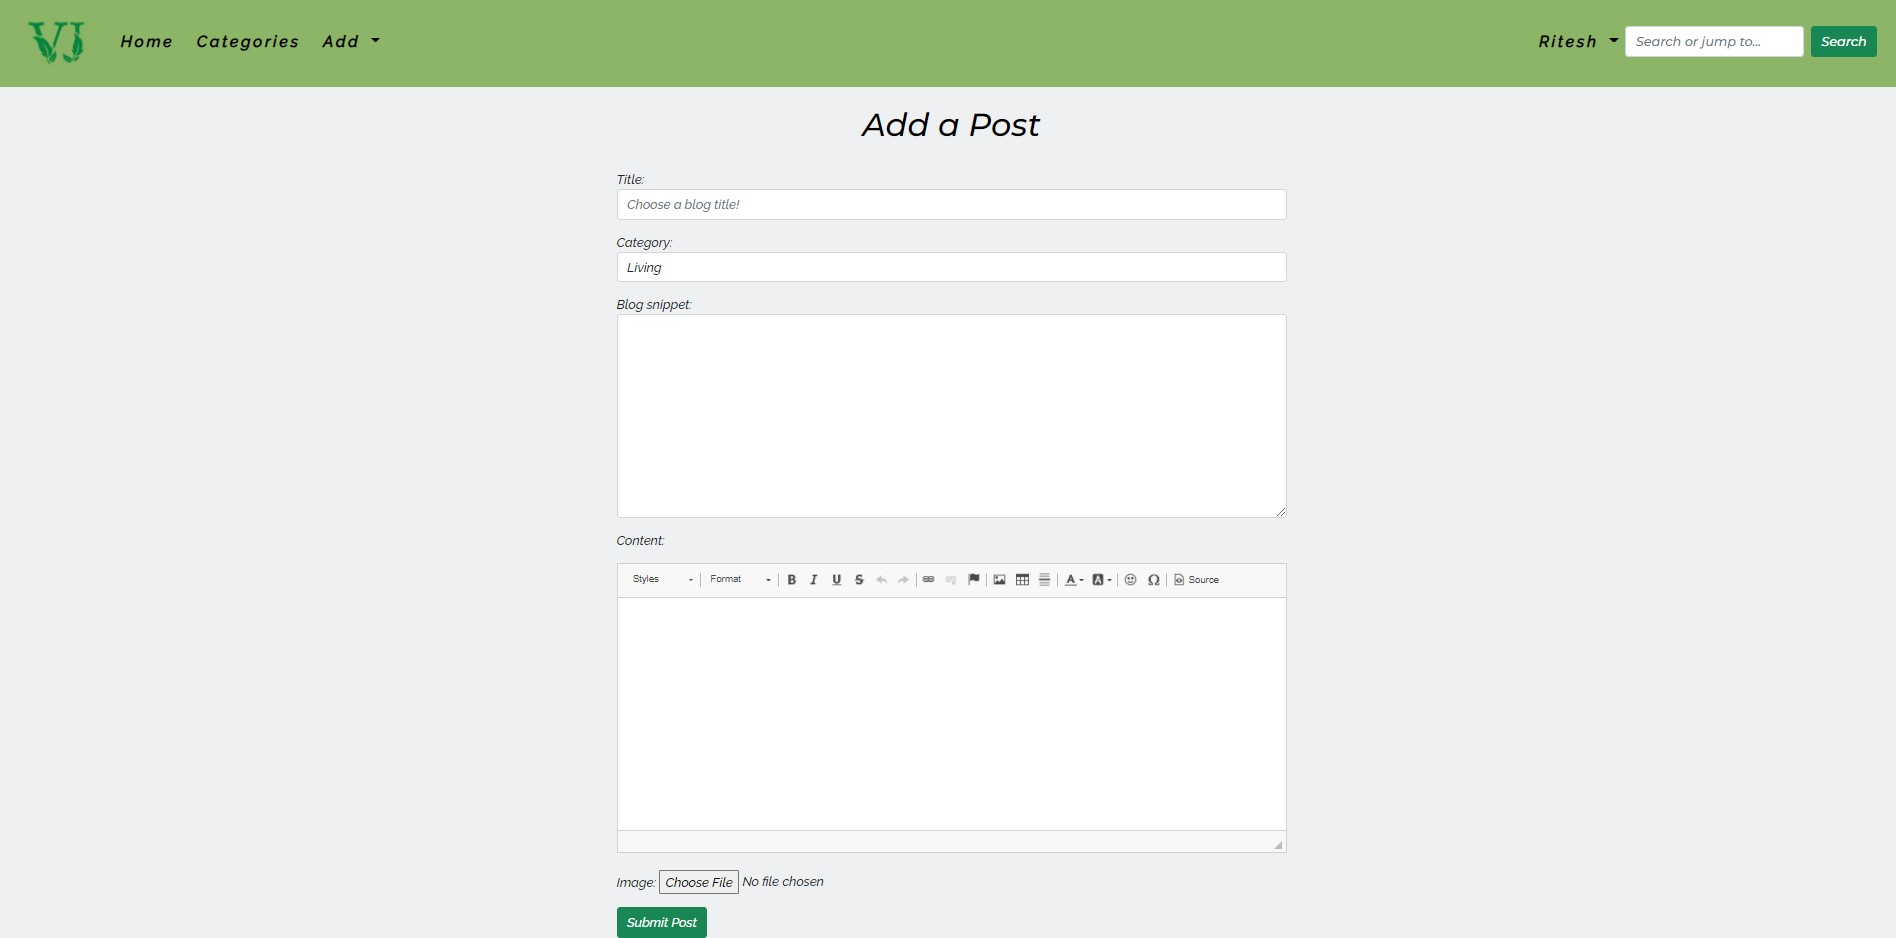
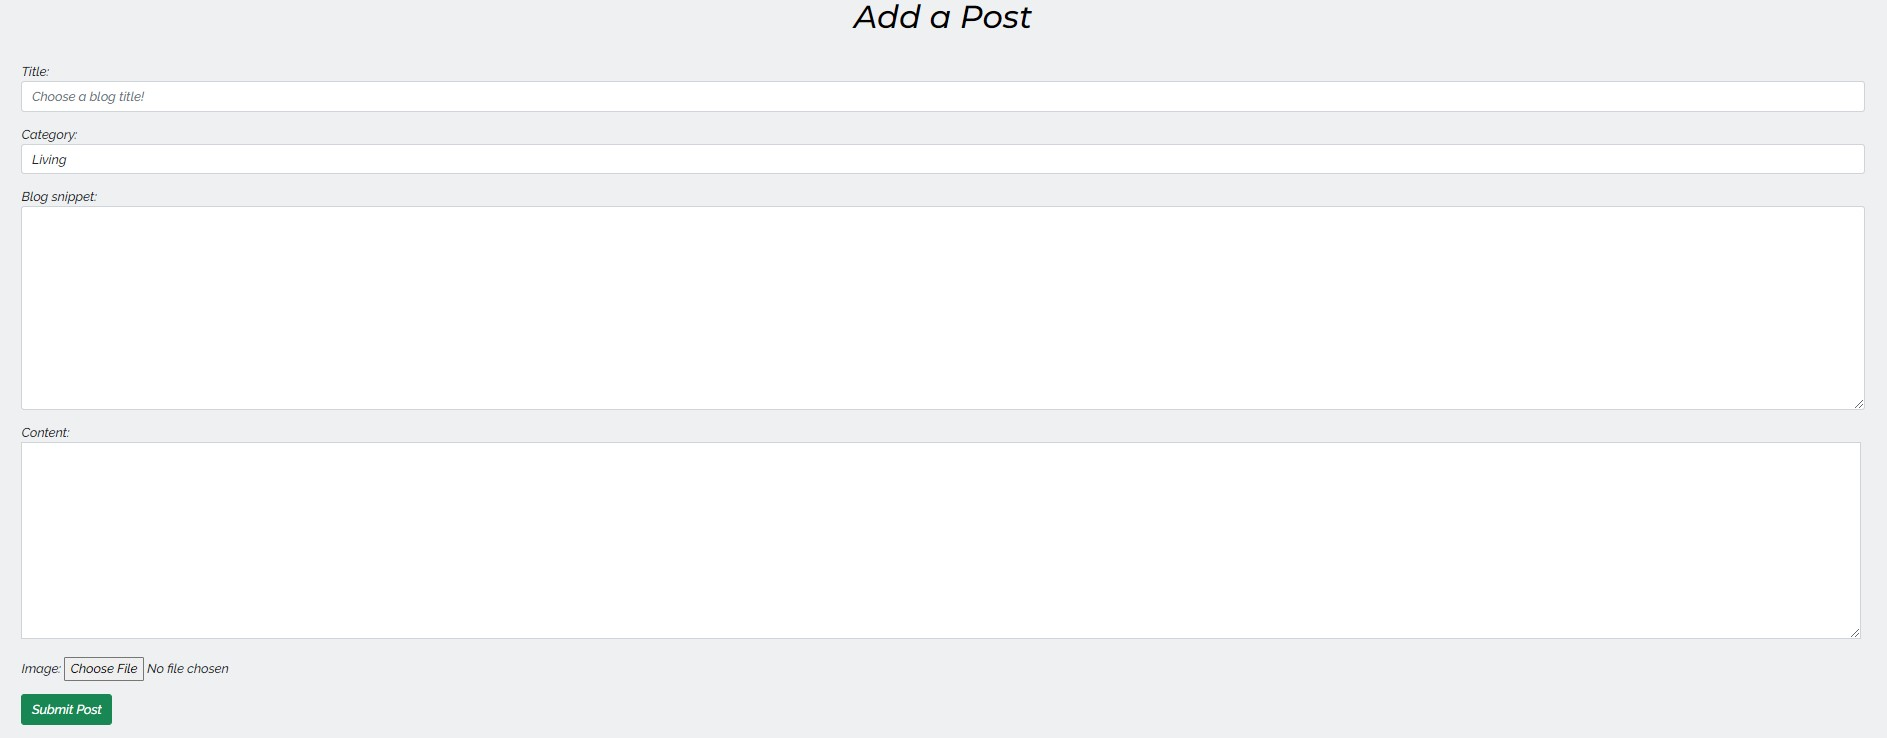
Update readme with bugs and fixes with images

diff --git a/README.md b/README.md
@@ -156,6 +156,16 @@ All Pages on the website have:
 ## Testing
 
 ### Bugs
+- Disorted form (add post page)
+  - [Error](documentation/testing/bugs/add_post.png) no styling for the comments section.
+    Used ckeditor to style the content section but the same was not displayed in the live site with a 404 [Error](documentation/testing/bugs/ckeditor-error.jpg). 
+  - [Solution](documentation/testing/bugs/add-post-fix.jpg)Checked with Mentor who told me to check with the tutor team who advised me to rescope the same. Used css styling to style the content form on all devices.
+
+
+- NoReverseMatch 
+  - [Error](documentation/testing/bugs/no-reverse-path.png) No Reverse match found while adding a post to the site.
+    There was no slug to the modal, when it was saved, the same slug(an empty string) was used over and over again.
+  - [Solution](documentation/testing/bugs/sumbit_post_fix.png) Took the title of the post, and used that as the slug, that what is the save method if the modal is doing, the second error was deleting posts that had no slug to tidy up. 
    
 
 ### Validation
@@ -198,7 +208,6 @@ All Pages on the website have:
 
   - ### Known Bugs
 
-    - 
 
 ## Deployment
 
